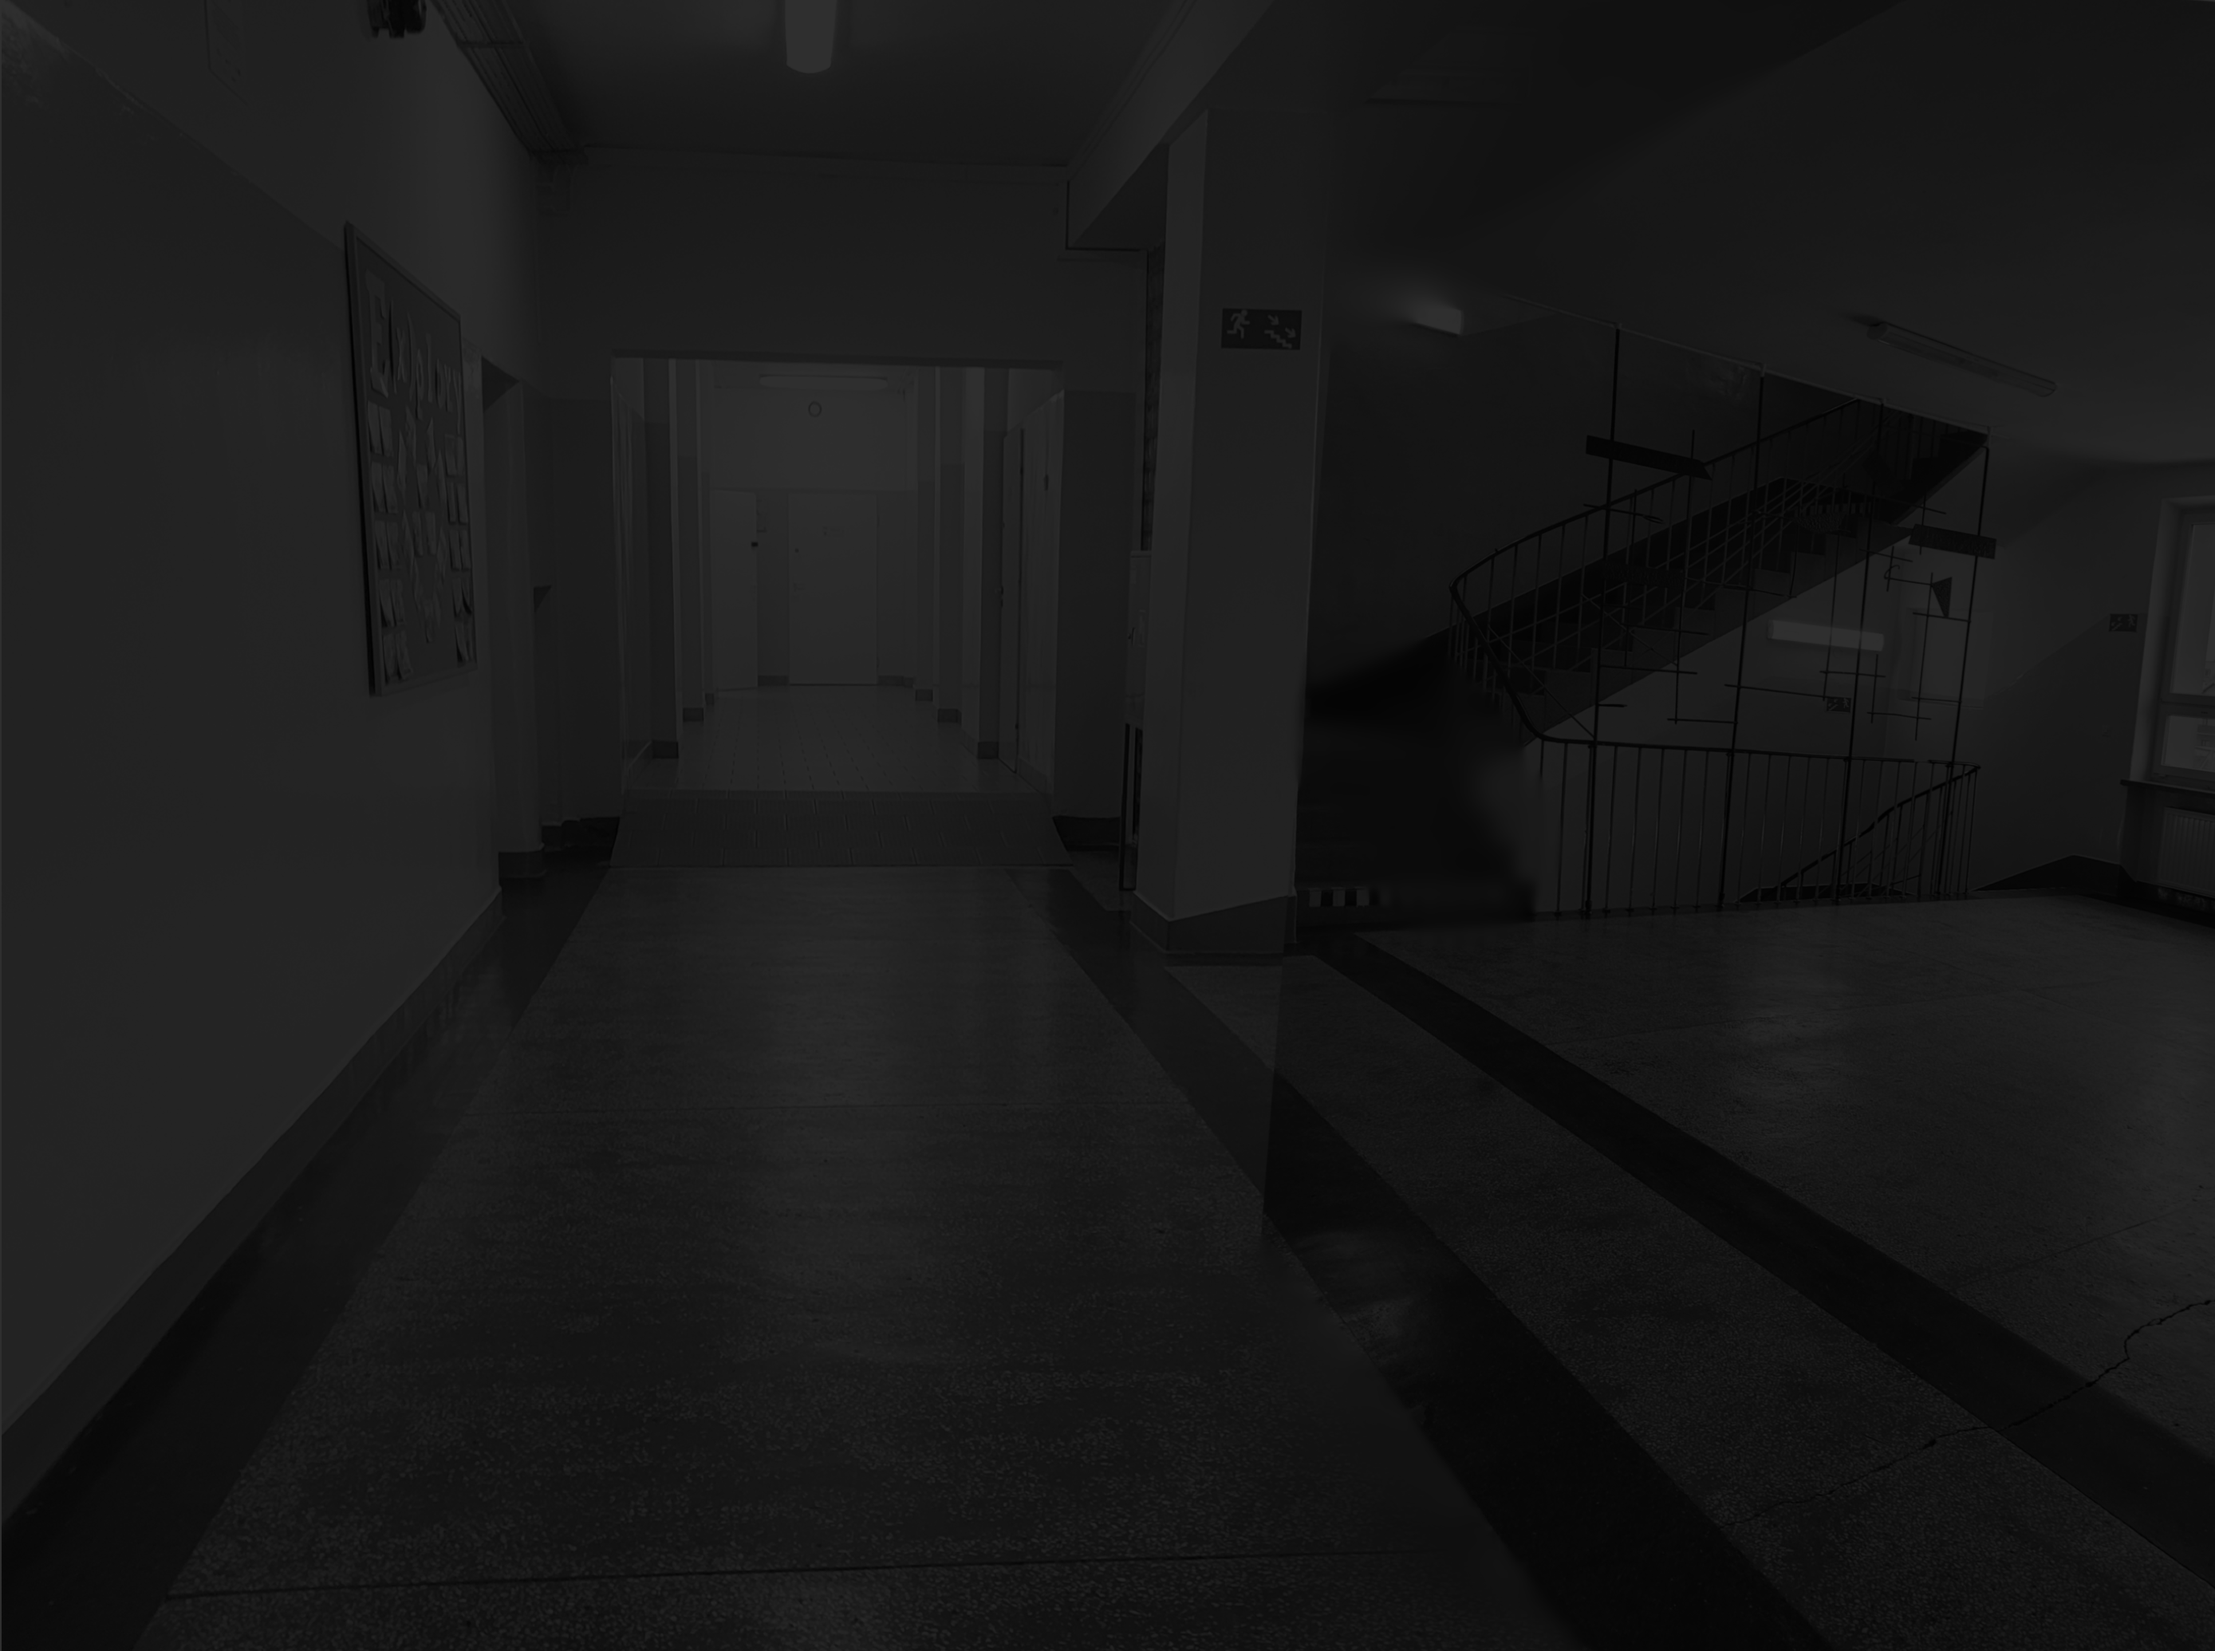
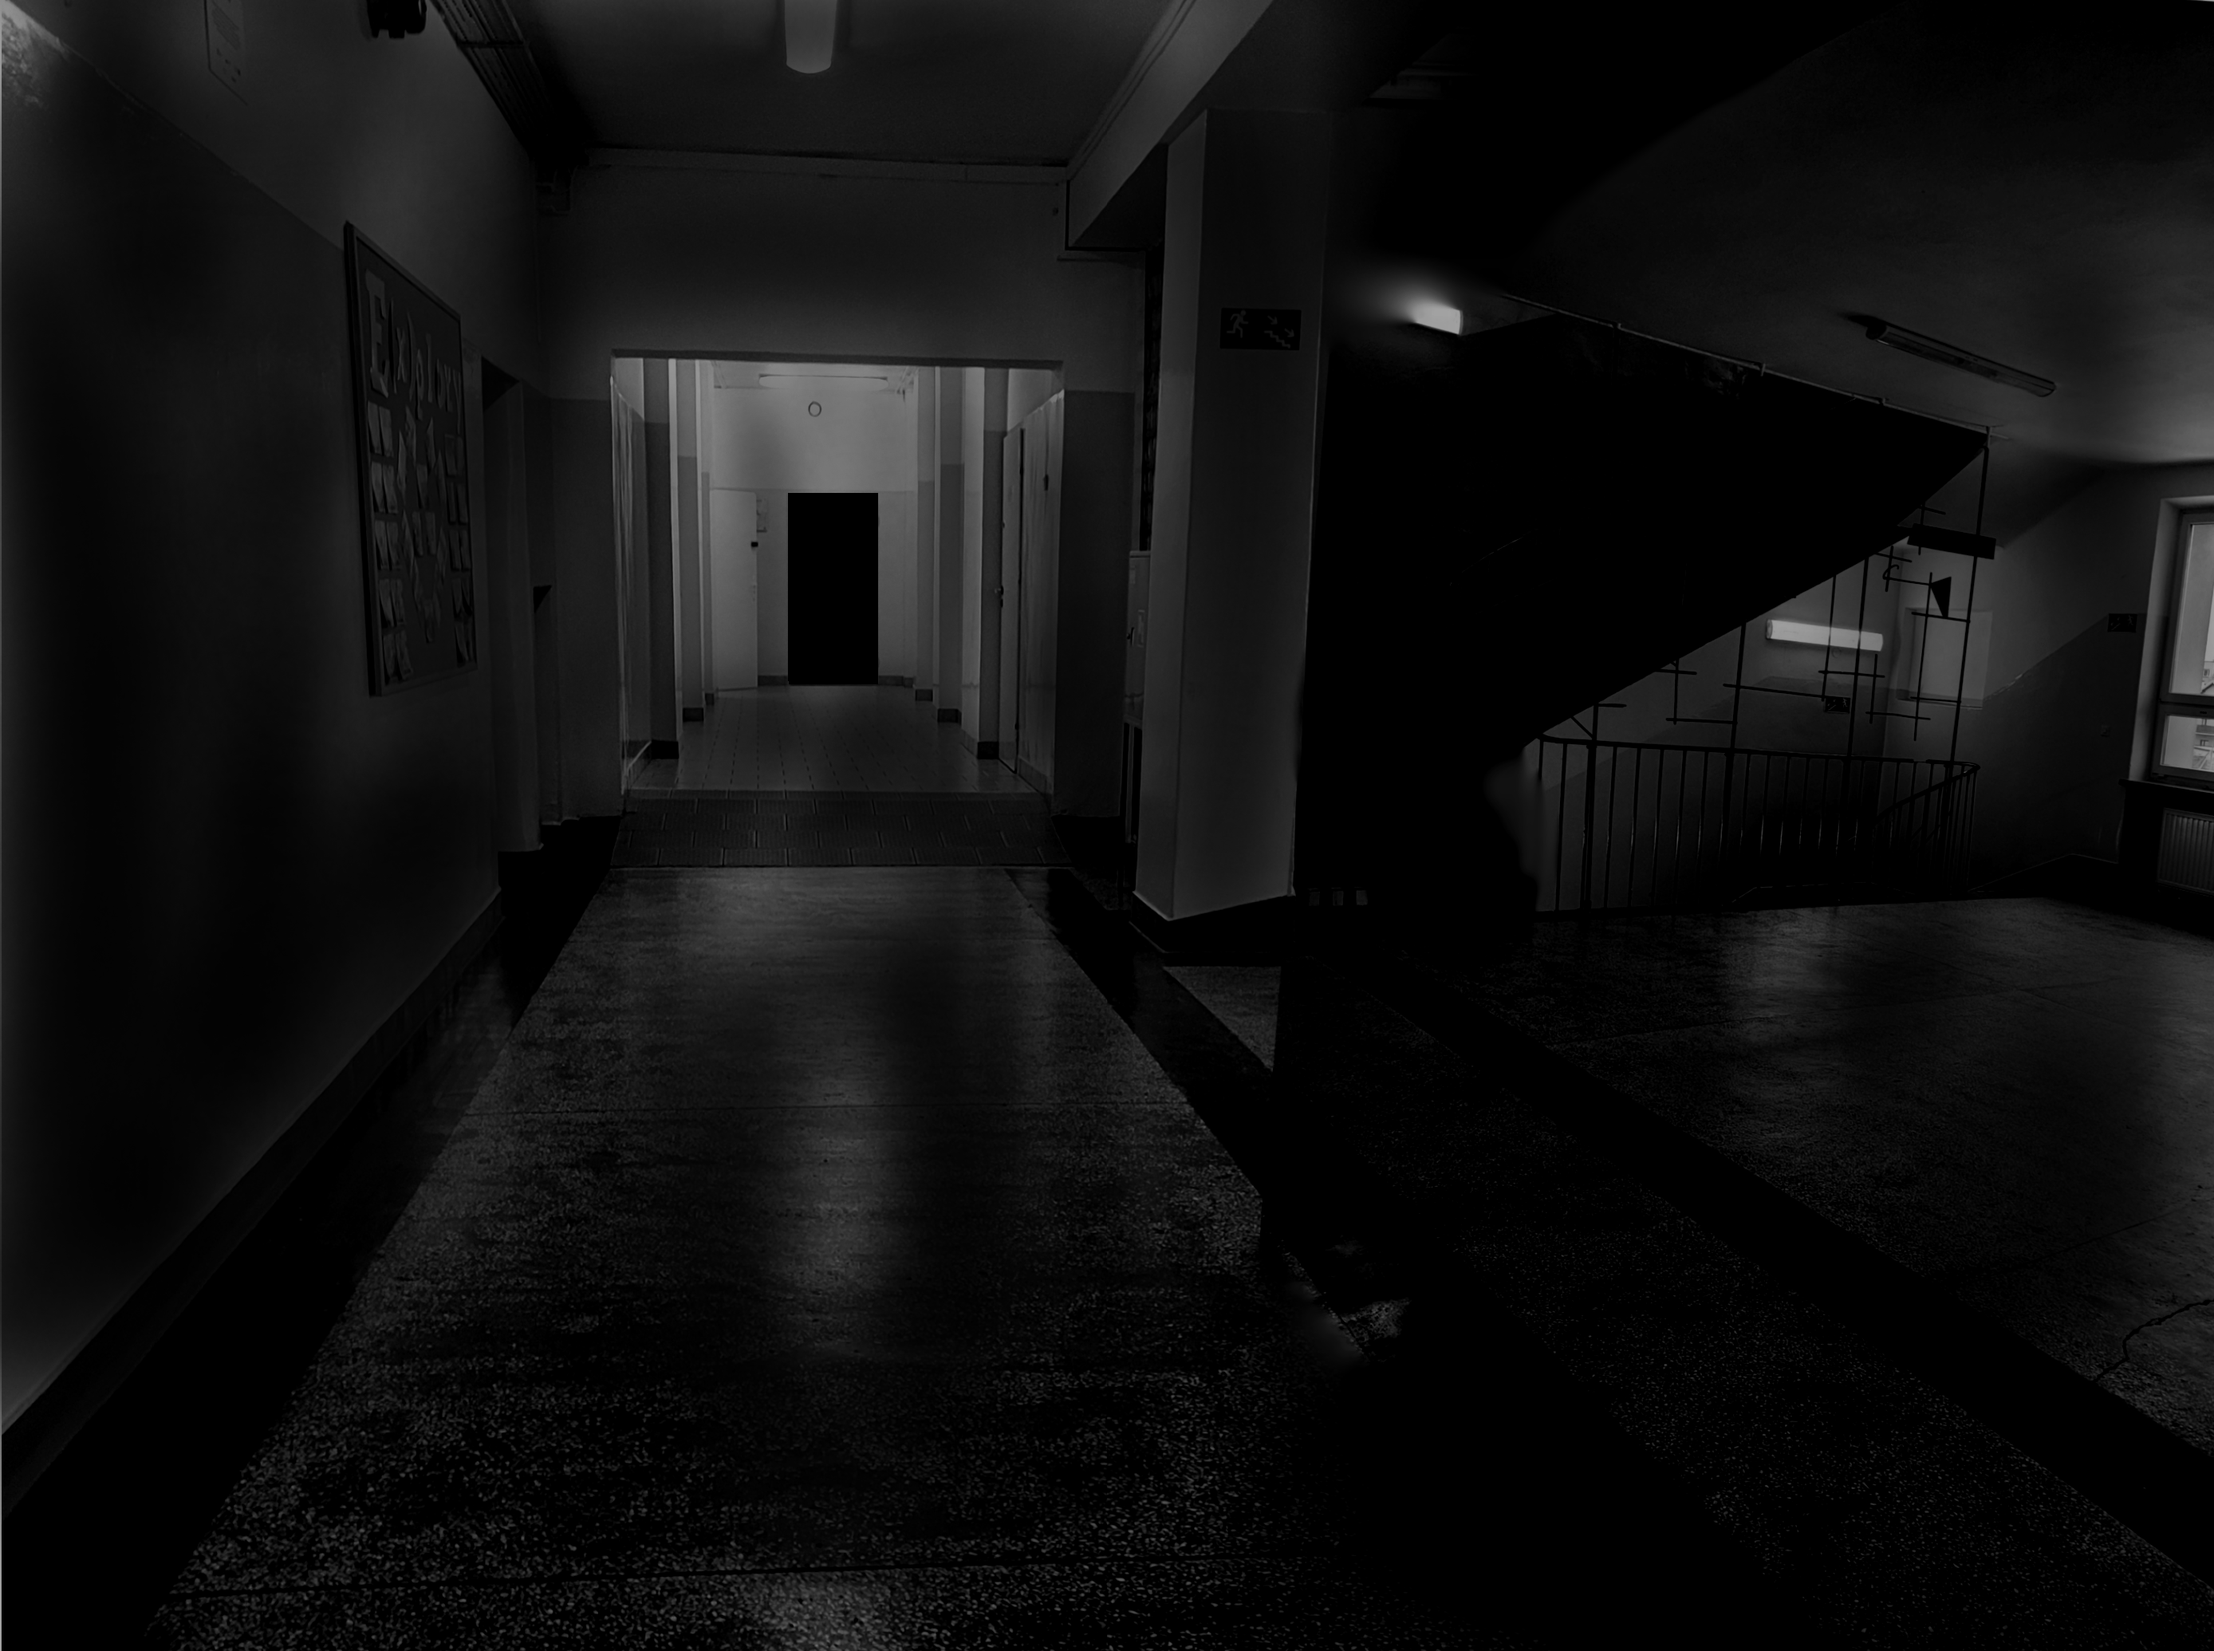
Pre-alpha version 1.5 Added:     - first (semi)working animatronic - Englart, which already has jumpscare     - one more photo of 'Szuj'

diff --git a/index.js b/index.js
@@ -64,7 +64,7 @@ class Screen {
 }
 
 class Frame {
-	constructor(id, n, img, posX, posY, width, height, func=null) {
+	constructor(id, n, img, posX, posY, width, height, func = null) {
 		this.id = id;
 		this.n = n;
 		this.image = img;
@@ -72,21 +72,23 @@ class Frame {
 		this.y = posY;
 		this.w = width;
 		this.h = height;
-		this.f = func;
+		this.func = func;
 	}
 
 	getElement(parent, innerHTML = "") {
-		return new Element("div", {position: "absolute", top: this.y + "vh", left: this.x + "vw", width: this.w + "vw", height: this.h + "vh", "background-image": `url(${this.img})`, "background-size": `${this.w}vw ${this.j}vh`}, parent, innerHTML);
+		return new Element("div", {position: "absolute", top: this.y, left: this.x, width: this.w, height: this.h, "background-image": this.image, "background-size": `${this.w} ${this.h}`}, parent, innerHTML);
 	}
 }
 
 class Animatronic {
-	constructor(id, frames, end, alternativeFrames = null, divergenceAt = 0, convergenceAt = 0) {
+	constructor(id, frames, end, jumpscareImg, alternativeFrames = null, divergenceAt = 0, convergenceAt = 0) {
 		this.id = id;
 		this.frames = frames;
 		this.speed = 0;
 		this.pos = 0;
 		this.end = end;
+		this.moved = 0;
+		this.jumpscareImg = jumpscareImg;
 		if (alternativeFrames != null) {
 			this.alternativeFrames = alternativeFrames;
 			this.divergenceAt = divergenceAt;
@@ -99,23 +101,31 @@ class Animatronic {
 	}
 
 	update() {
-		if (Math.random() < this.speed) {
-			console.log("u");
+		if (Math.random() < this.speed / 20000) {
 			//TODO: add super-mega-complex formula on speed calculations
+			console.log("u");
 			this.pos++;
+			this.moved++;
+			// if (this.pos > 2) {
+			// 	return;
+			// }
 			if (this.pos == this.end) {
 				this.jumpscare();
 				this.pos = 0;
-				return;
+				// return;
 			}
-			else if(this.frames[this.pos].func != null){
+			if (this.frames[this.pos].func != null) {
+				console.log(this.pos, "!!!");
 				this.frames[this.pos].func();
 			}
 		}
+		return this.frames[this.pos];
 	}
 
 	jumpscare() {
 		console.log("BOO");
+		JumpscareScreenBG.el.style["background-image"] = this.jumpscareImg;
+		JumpscareScreen.show();
 	} //TODO: do.
 }
 
@@ -412,48 +422,85 @@ const VictoryScreen = new Screen(VictoryScreenBG);
 const CameraScreen = new Element("div", {position: "absolute", top: "0vh", transform: "rotateX(90deg)", width: "100vw", height: "200vh", "z-index": 999, border: "2vw solid #333333", "background-color": "black"}, ScreenParent);
 CameraScreen.hide();
 
-const CameraScreen01BG = new Element("div", {width: "100vw", height: "100vh", "z-index": 0, "background-image": "url(files/images/cameraScreen01.jpg)", "background-size": "100vw 100vh"}, ScreenParent, `
+const CameraScreen01BG = new Element(
+	"div",
+	{width: "100vw", height: "100vh", "z-index": 0, "background-image": "url(files/images/cameraScreen01.jpg)", "background-size": "100vw 100vh"},
+	ScreenParent,
+	`
 <div class="cameraRecordingCircle" style="z-index: 4; background-color: #f00; border-radius: 50%; width: 5vw; height: 5vw; position: absolute; top: 3vw; left: 3vw;"></div>
-`);
+`
+);
 const CameraScreen01 = new Screen(CameraScreen01BG);
 
-const CameraScreen02BG = new Element("div", {width: "100vw", height: "100vh", "z-index": 0, "background-image": "url(files/images/cameraScreen02.jpg)", "background-size": "100vw 100vh"}, ScreenParent, `
+const CameraScreen02BG = new Element(
+	"div",
+	{width: "100vw", height: "100vh", "z-index": 0, "background-image": "url(files/images/cameraScreen02.jpg)", "background-size": "100vw 100vh"},
+	ScreenParent,
+	`
 <div class="cameraRecordingCircle" style="z-index: 4; background-color: #f00; border-radius: 50%; width: 5vw; height: 5vw; position: absolute; top: 3vw; left: 3vw;"></div>
-`);
+`
+);
 const CameraScreen02 = new Screen(CameraScreen02BG);
 
-const CameraScreen03BG = new Element("div", {width: "100vw", height: "100vh", "z-index": 0, "background-image": "url(files/images/cameraScreen03.jpg)", "background-size": "100vw 100vh"}, ScreenParent, `
+const CameraScreen03BG = new Element(
+	"div",
+	{width: "100vw", height: "100vh", "z-index": 0, "background-image": "url(files/images/cameraScreen03.png)", "background-size": "100vw 100vh"},
+	ScreenParent,
+	`
 <div class="cameraRecordingCircle" style="z-index: 4; background-color: #f00; border-radius: 50%; width: 5vw; height: 5vw; position: absolute; top: 3vw; left: 3vw;"></div>
-`);
+`
+);
 const CameraScreen03 = new Screen(CameraScreen03BG);
 
-const CameraScreen04BG = new Element("div", {width: "100vw", height: "100vh", "z-index": 0, "background-image": "url(files/images/cameraScreen04.png)", "background-size": "100vw 100vh"}, ScreenParent, `
+const CameraScreen04BG = new Element(
+	"div",
+	{width: "100vw", height: "100vh", "z-index": 0, "background-image": "url(files/images/cameraScreen04.png)", "background-size": "100vw 100vh"},
+	ScreenParent,
+	`
 <div class="cameraRecordingCircle" style="z-index: 4; background-color: #f00; border-radius: 50%; width: 5vw; height: 5vw; position: absolute; top: 3vw; left: 3vw;"></div>
-`);
+`
+);
 
-const CameraDoor04 = new Element("div", {width: "4vw", height: "11.3vh", "z-index": 1, "background-image": "url(files/images/cameraDoor03.png)", "background-size": "4vw 11.3vh", position: "absolute", top: "30vh", left: "35.5vw"}, CameraScreen04BG.el); 
+const CameraDoor04 = new Element("div", {width: "4.1vw", height: "11.5vh", "z-index": 1, "background-image": "url(files/images/cameraDoor03.png)", "background-size": "4.1vw 11.5vh", position: "absolute", top: "29.9vh", left: "35.5vw"}, CameraScreen04BG.el);
 
 const CameraScreen04 = new Screen(CameraScreen04BG);
 
-const CameraScreen05BG = new Element("div", {width: "100vw", height: "100vh", "z-index": 0, "background-image": "url(files/images/cameraScreen05.jpg)", "background-size": "100vw 100vh"}, ScreenParent, `
+const CameraScreen05BG = new Element(
+	"div",
+	{width: "100vw", height: "100vh", "z-index": 0, "background-image": "url(files/images/cameraScreen05.jpg)", "background-size": "100vw 100vh"},
+	ScreenParent,
+	`
 <div class="cameraRecordingCircle" style="z-index: 4; background-color: #f00; border-radius: 50%; width: 5vw; height: 5vw; position: absolute; top: 3vw; left: 3vw;"></div>
-`);
+`
+);
 const CameraScreen05 = new Screen(CameraScreen05BG);
 
 //ANIMATRONICS
 
-function CameraDoor04Phase(width){
+function CameraDoor04Phase(width) {
 	CameraDoor04.el.style.width = width;
 	console.log(width);
 }
 
 const EnglartFrames = [
-	new Frame(6660, 0, "", "0vw", "0vh", "0vw", "0vh", null),
-	new Frame(6661, 1, "", "0vw", "0vh", "0vw", "0vh", () => {CameraDoor04Phase("3.7vw");}),
-	new Frame(6662, 2, "", "0vw", "0vh", "0vw", "0vh", () => {CameraDoor04Phase("3.4vw");})
+	new Frame(6660, 0, "", "0vw", "0vh", "0vw", "0vh", () => {
+		CameraDoor04Phase("4.1vw");
+	}),
+	new Frame(6661, 1, "", "0vw", "0vh", "0vw", "0vh", () => {
+		CameraDoor04Phase("3.4vw");
+	}),
+	new Frame(6662, 2, "url(files/images/EnglartPhase2.png)", "38vw", "30vh", "2.5vw", "2.5vh", () => {
+		CameraDoor04Phase("2.8vw");
+	}),
 ];
-const Englart = new Animatronic(666, EnglartFrames, 3, null, 0, 0);
-Englart.setSpeed(5);
+const Englart = new Animatronic(666, EnglartFrames, 3, "url(files/images/EnglartJumpscare1.png)", null, 0, 0);
+Englart.setSpeed(90);
+
+//JUMPSCARE SCREEN
+
+const JumpscareScreenBG = new Element("div", {position: "absolute", width: "100vw", height: "100vh", "z-index": 999, "background-repeat": "no-repeat", "background-position": "center", "background-size": "100vh 100vh"}, ScreenParent);
+
+const JumpscareScreen = new Screen(JumpscareScreenBG);
 
 //CAMERA MANAGEMENT
 
@@ -567,8 +614,14 @@ function GameLoop() {
 	EnergyLevel.el.innerHTML = "Power left: " + Math.floor(Data.energy / 50) + "%";
 
 	//Animatronics cotrol
-	Englart.update();
-	
+	let frame = Englart.update();
+	if (Englart.moved > 0) {
+		Englart.moved--;
+		if (frame && frame.image) {
+			frame.getElement(CameraScreen04BG.el, ``);
+		}
+	}
+
 	setTimeout(GameLoop, 25); //40 fps
 }
 
